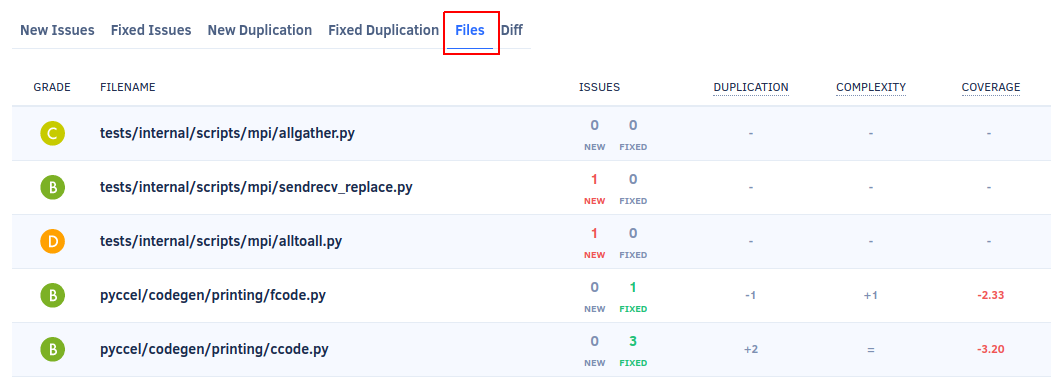
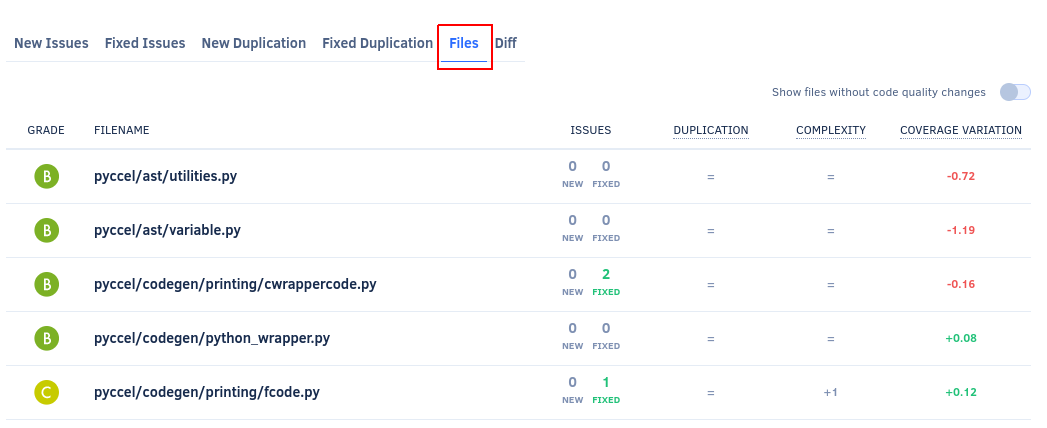
feat: Add Files tab filter and update coverage variation label CY-6455 CY-6387 (#1398)
* clean: Make description of coverage variation more consistent

Also refactors the conditional placeholders.

* feat: Update screenshots of the Files tab

* feat: Describe switch Show files without code quality changes

diff --git a/docs/repositories/commits.md b/docs/repositories/commits.md
@@ -43,9 +43,8 @@ This area displays the quality gate status and an overview of the code quality m
     -   **Complexity:** Variation of complexity
 {% if page.meta.page_name == "commit" %}
     -   **Coverage:** Variation of code coverage percentage relative to the parent commit
-{% endif %}
-{% if page.meta.page_name == "pull request" %}
-    -   **Coverage variation:** Variation of code coverage relative to the target branch
+{% else %}
+    -   **Coverage variation:** Variation of code coverage percentage relative to the target branch
     -   **Diff coverage:** Code coverage of the coverable lines added or changed by the pull request, or `∅` (not applicable) if there aren't any coverable lines added or changed
 {% endif %}
 
@@ -103,21 +102,16 @@ The **New Duplication** and **Fixed Duplication** tabs display the list of dupli
 
 ## Files tab
 
-The **Files** tab displays an overview of the code quality metrics for each file that the {{ page.meta.page_name }} updated or caused the code coverage value to change. <!--NOTE See https://codacy.atlassian.net/browse/CY-5946 for a discussion around changing this behavior in the future-->
-
-For each file Codacy displays the variation of the following [code quality metrics](../faq/code-analysis/which-metrics-does-codacy-calculate.md) introduced by the {{ page.meta.page_name }}, displayed either as a **positive or negative variation**, or **no variation** (represented by `=`):
+The **Files** tab displays the variation of the following [code quality metrics](../faq/code-analysis/which-metrics-does-codacy-calculate.md) that the {{ page.meta.page_name }} introduced to the files in your repository, displayed either as a **positive or negative variation**, or **no variation** (represented by `=`):
 
 -   **Issues:** Number of new or fixed issues
 -   **Duplication:** Variation of the number of duplicated code blocks
 -   **Complexity:** Variation of complexity
-{% if page.meta.page_name == "commit" %}
--   **Coverage:** Variation of code coverage percentage relative to the parent commit
-{% endif %}
-{% if page.meta.page_name == "pull request" %}
--   **Coverage variation:** Variation of code coverage relative to the target branch
-{% endif %}
+-   **Coverage variation:** Variation of code coverage percentage relative to the {% if page.meta.page_name == "commit" %}parent commit{% else %}target branch{% endif %}
 
 Depending on the languages being analyzed or if you haven't [set up coverage for your repository](../coverage-reporter/index.md), some metrics **may not be calculated** (represented by `-`).
+
+The option **Show files without code quality changes** allows you to list all files that the {{ page.meta.page_name }} updated, even if their code quality metrics didn't change.
 
 <!-- vale off -->
 ![Files tab](images/{{ page.meta.file_name }}-tab-files.png)
